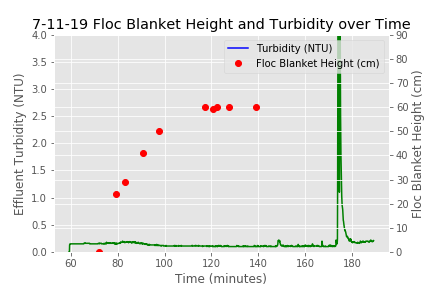
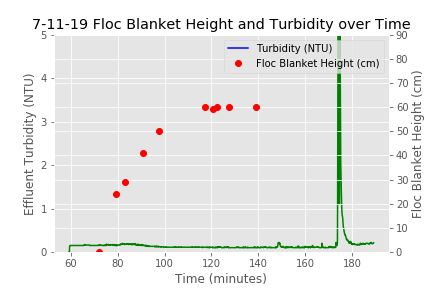
data

diff --git a/Summer 2019/Data and Graphs/7-11-19/7-11-19 Experiment.md b/Summer 2019/Data and Graphs/7-11-19/7-11-19 Experiment.md
@@ -19,14 +19,14 @@ floc_blanket = data.iloc[:,6]
 fig, ax1 = plt.subplots()
 ax1.set_xlabel("Time (minutes)")
 ax1.set_ylabel("Effluent Fluoride Concentration (mg/L)")
-ax1.set_ylim(0,2)
+ax1.set_ylim(0,10)
 # line1 is the line handle for the effluent_turbidity graph
 fluoride_plot, = ax1.plot(time, fluoride, color="blue")
 
 # ax2 is an axis handle for the second y-axis, with the same x-axis as ax1
 ax2 = ax1.twinx()
 ax2.set_ylabel("Effluent Turbidity (NTU)")
-ax2.set_ylim(0,1)
+ax2.set_ylim(0,5)
 # line1 is the line handle for the effluent_turbidity graph
 turbidity_plot, = ax2.plot(time, turbidity, color="green")
 plt.title("7-11-19 Effluent Fluoride Concentration and Turbidity")
@@ -60,7 +60,7 @@ plt.savefig("7-11-19 Floc Blanket Height and Fluoride Concentration")
 fig, ax5 = plt.subplots()
 ax5.set_xlabel("Time (minutes)")
 ax5.set_ylabel("Effluent Turbidity (NTU)")
-ax5.set_ylim(0,4)
+ax5.set_ylim(0,5)
 # turbidity_plot is the line handle for the effluent turbidity graph
 turbidity_plot, = ax5.plot(time, turbidity, color="green")
 
